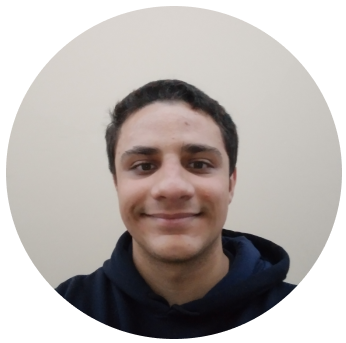
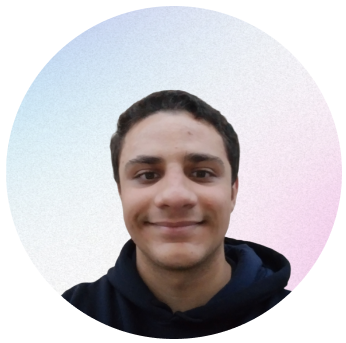
mudanças finais e dados pessoais

diff --git a/index.html b/index.html
@@ -24,22 +24,22 @@
     </div>
 
     <ul>
-      <li><a href="#" target="_blank">Inscrever-se na NLW</a></li>
-      <li><a href="#" target="_blank">Baixar meu e-book</a></li>
-      <li><a href="#" target="_blank">Veja meu portfólio</a></li>
-      <li><a href="#" target="_blank">Conheça o explorer</a></li>
+      <li><a href="https://wa.me/5515991865410" target="_blank">Meu contato</a></li>
+      <li><a href="https://github.com/fehaugusto?tab=repositories" target="_blank">Veja meu portfólio</a></li>
+      <li><a href="https://www.rocketseat.com.br/" target="_blank">Onde eu estudo</a></li>
+      <li><a href="https://app.rocketseat.com.br/me/felipe-augusto-moreno-08635" target="_blank">Meu perfil de estudo</a></li>
     </ul>
     <div id="social-links">
-      <a href="https://github.com/maykbrito" target="_blank">
+      <a href="https://github.com/fehaugusto" target="_blank">
       <ion-icon name="logo-github"></ion-icon>
       </a>
-      <a href="https://github.com/maykbrito" target="_blank">
+      <a href="https://www.instagram.com/fehaugustomoreno/" target="_blank">
       <ion-icon name="logo-instagram"></ion-icon>
       </a>
-      <a href="https://github.com/maykbrito" target="_blank">
+      <a href="https://www.youtube.com/c/rocketseat" target="_blank">
       <ion-icon name="logo-youtube"></ion-icon>
       </a>
-      <a href="https://github.com/maykbrito" target="_blank">
+      <a href="https://www.linkedin.com/in/felipe-augusto-moreno-26ba12261" target="_blank">
       <ion-icon name="logo-linkedin"></ion-icon>
       </a>
     </div>

diff --git a/style.css b/style.css
@@ -34,6 +34,7 @@ body {
 
   /*backgrount: color image repeat position/size */
   background: var(--bg-url) no-repeat top center/cover;
+  height: 100vh;
 }
 
 body * {
@@ -48,7 +49,8 @@ body * {
   4 propriedade = sentido horario */
 
 #container {
-  width: 360px;
+  width: 100%;
+  max-width: 588px;
   margin: auto;
   margin-top: 56px auto 0px;
   padding: 0 24px;
@@ -82,19 +84,20 @@ body * {
   width: 32px;
   height: 32px;
   background: white var(--switch-bg-url) no-repeat center;
+  left: 0;
   border: 0;
   border-radius: 50%;
 
   position: absolute;
   top: 50%;
-  left: 0;
   z-index: 1;
   transform: translateY(-50%);
+
+  animation: slide-back .2s;
 }
 
 .light #switch button {
-  right: 0;
-  left: initial;
+  animation: slide-in .2s forwards;
 }
 
 #switch span {
@@ -106,6 +109,10 @@ body * {
   backdrop-filter: blur(4px);
   -webkit-backdrop-filter: blur(4px);
   border-radius: 9999px;
+}
+
+#switch button:hover {
+  outline: 8px solid var(--highlight-color)
 }
 
 /* links */
@@ -173,4 +180,34 @@ footer {
   padding: 24px 0;
   text-align: center;
   font-size: 14px;
+}
+
+/* Media queries */
+@media (min-width: 700px) {
+  :root {
+    --bg-url: url(./assets/bg-desktop.jpg);
+  }
+
+  .light {
+    --bg-url: url(./assets/bg-desktop-light.jpg);
+  }
+}
+
+/* animation */
+@keyframes slide-in {
+  from {
+    left: 0;
+  }
+  to {
+    left: 50%;
+  }
+}
+
+@keyframes slide-back {
+  from {
+    left: 50%;
+  }
+  to {
+    left: 0;
+  }
 }

diff --git a/README.md b/README.md
@@ -1,0 +1,52 @@
+<h1 align="center"> DevLinks </h1>
+
+<p align="center">
+Programa exclusivo e gratuito, promovido pela Rocketseat para ensino de tecnologias WEB. <br/>
+<a href="https://lp.rocketseat.com.br/devlinks/inscricao?utm_source=github&utm_medium=descricao&utm_campaign=capture-devlinks&utm_term=organic&utm_content=descricao-github-mayk-brito">Estude esse projeto em formato de vídeo clicando aqui.</a>
+</p>
+
+<p align="center">
+  <a href="#-tecnologias">Tecnologias</a>&nbsp;&nbsp;&nbsp;|&nbsp;&nbsp;&nbsp;
+  <a href="#-projeto">Projeto</a>&nbsp;&nbsp;&nbsp;|&nbsp;&nbsp;&nbsp;
+  <a href="#-layout">Layout</a>&nbsp;&nbsp;&nbsp;|&nbsp;&nbsp;&nbsp;
+  <a href="#memo-licença">Licença</a>
+</p>
+
+<p align="center">
+  <img alt="License" src="https://img.shields.io/static/v1?label=license&message=MIT&color=49AA26&labelColor=000000">
+</p>
+
+<br>
+
+<p align="center">
+  <img alt="projeto DevLinks" src=".github/preview.jpg" width="100%">
+</p>
+
+## 🚀 Tecnologias
+
+Esse projeto foi desenvolvido com as seguintes tecnologias:
+
+- HTML e CSS
+- JavaScript
+- Git e Github
+- Figma
+
+## 💻 Projeto
+
+O DevLinks é um agregador de links para usar como cartão de visitas online.
+
+- [Acesse o projeto finalizado, online](https://maykbrito.github.io/devlinks)
+
+- [Assistir aulas](https://lp.rocketseat.com.br/devlinks/inscricao?utm_source=github&utm_medium=descricao&utm_campaign=capture-devlinks&utm_term=organic&utm_content=descricao-github-mayk-brito)
+
+## 🔖 Layout
+
+Você pode visualizar o layout do projeto através [DESSE LINK](https://www.figma.com/community/file/1187422022288947321). É necessário ter conta no [Figma](https://figma.com) para acessá-lo.
+
+## :memo: Licença
+
+Esse projeto está sob a licença MIT.
+
+---
+
+Feito com ♥ by Rocketseat :wave: [Participe da nossa comunidade!](https://discord.gg/rocketseat)
